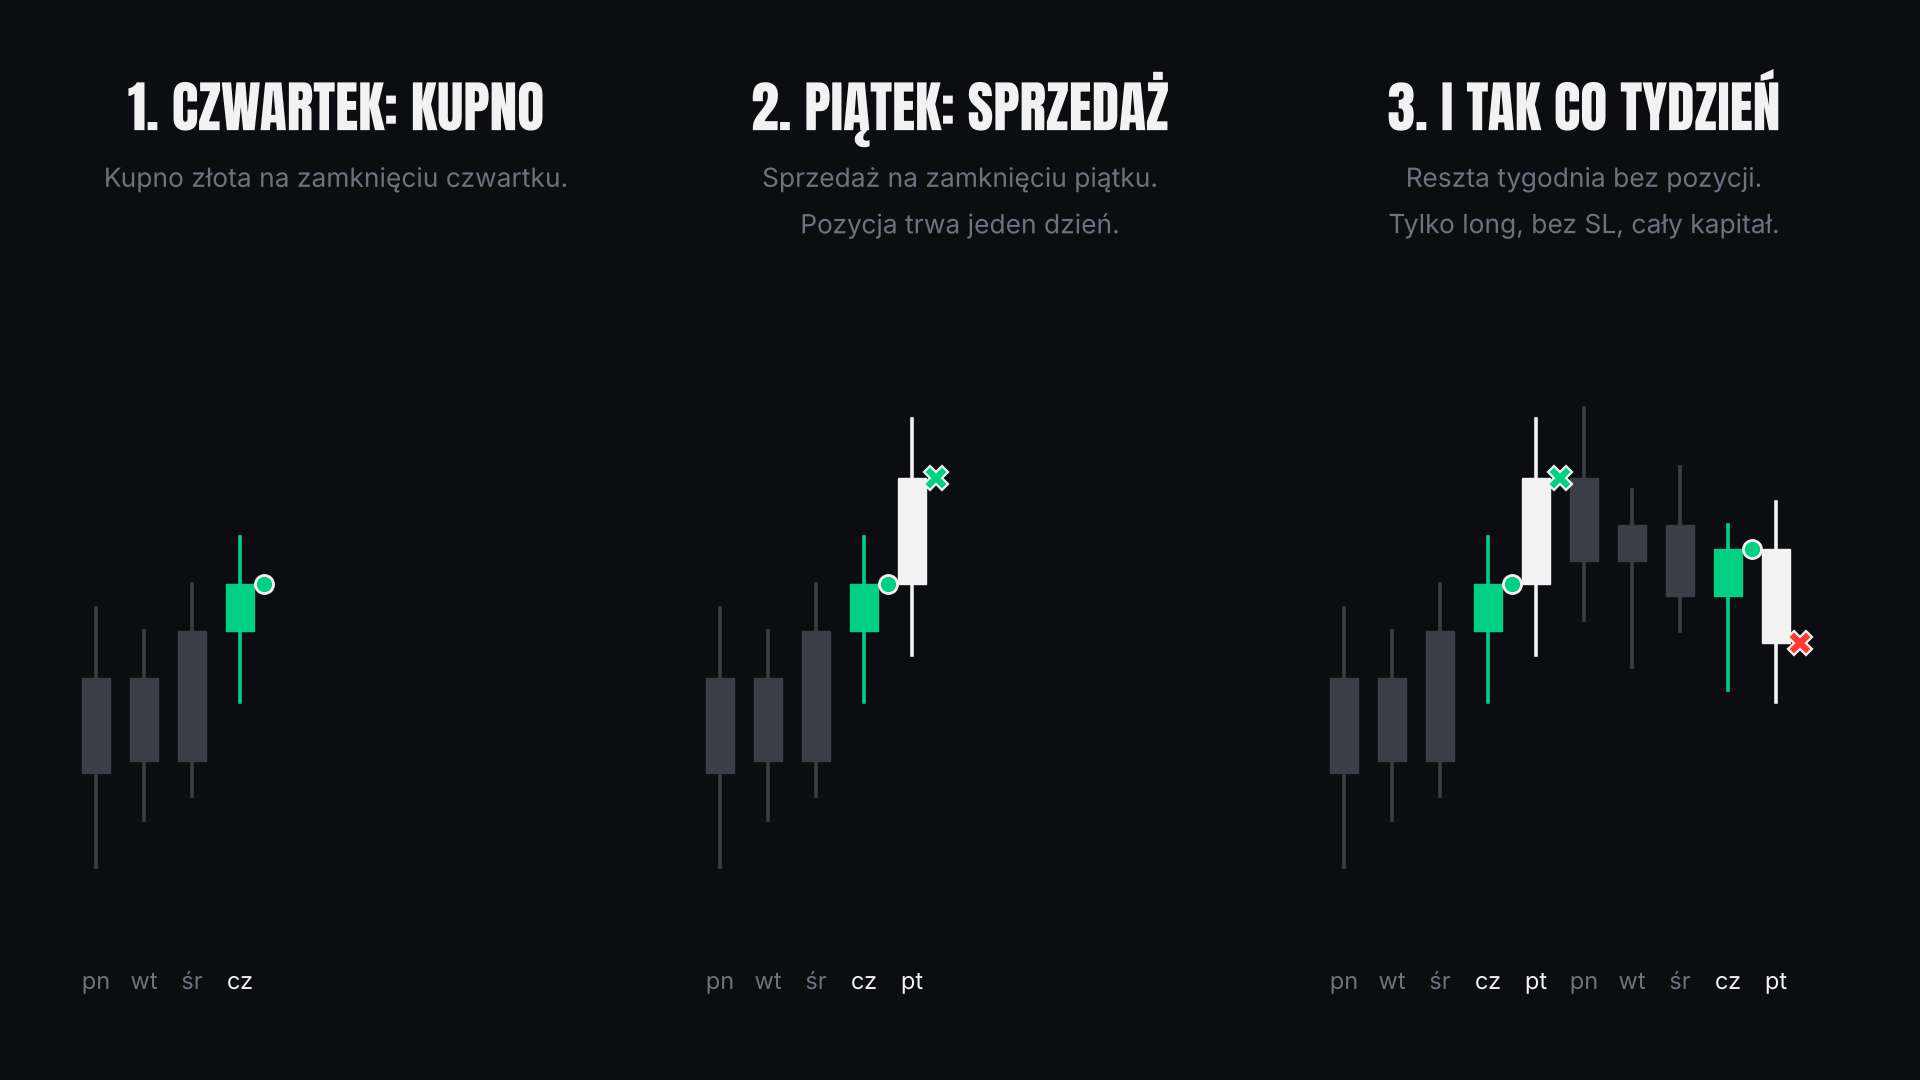
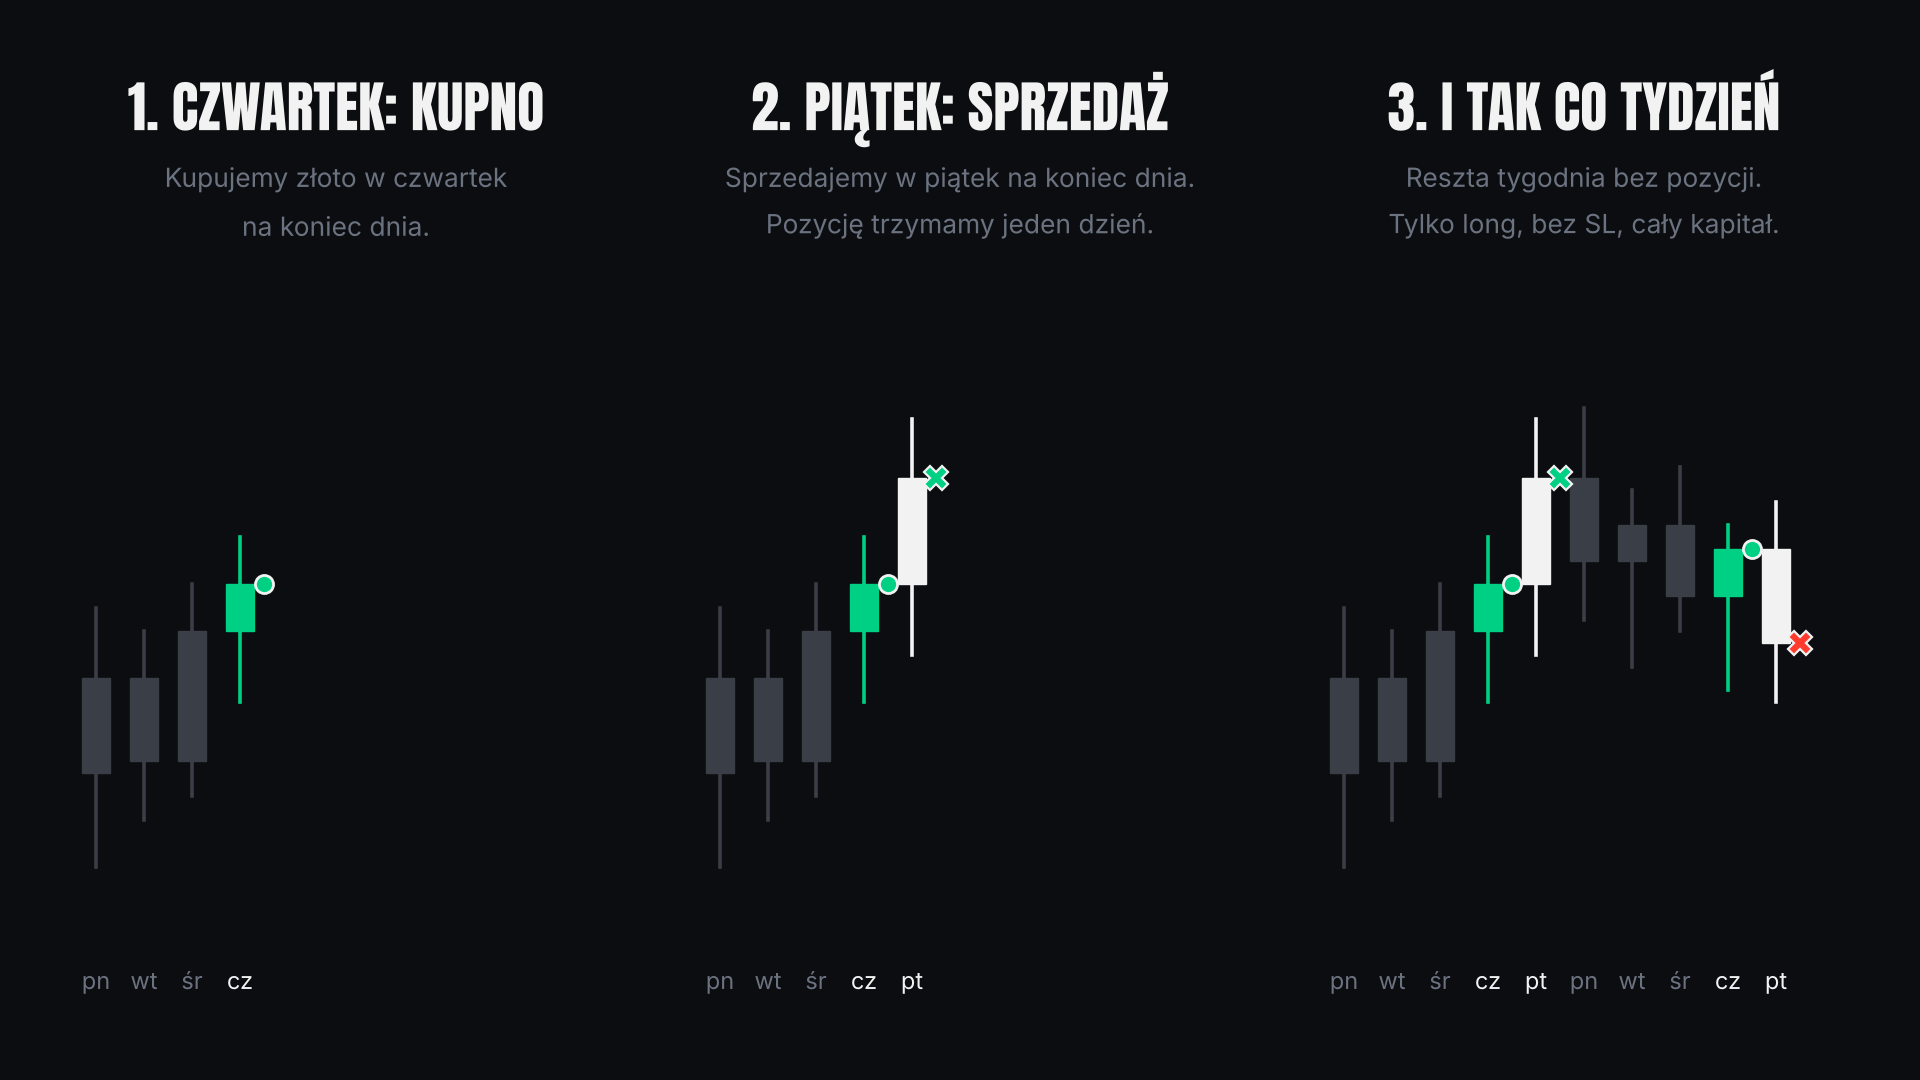
Plansza Gold czwartek/piątek: prostsze podpisy (na koniec dnia)
Claude-Session: https://claude.ai/code/session_01DmSsWBcz6xw89VZfSA4fdK

Changed region(s): [[0.375, 0.1528, 0.625, 0.2139], [0.0625, 0.1528, 0.2812, 0.2139]]

diff --git a/narzedzia/plansze_objasniajace/reddit_plansze.py b/narzedzia/plansze_objasniajace/reddit_plansze.py
@@ -363,11 +363,11 @@ def gold_thu_fri():
             s.ax.text(i, lo + s.dy * 0.6, days[i % 5], color=FG if i in hl else GREY, fontsize=17, ha="center", zorder=6)
 
     fig = figure()
-    s = Seg(fig, 0, "1. CZWARTEK: KUPNO", "Kupno złota na zamknięciu czwartku.", n, (lo, hi), right=1)
+    s = Seg(fig, 0, "1. CZWARTEK: KUPNO", "Kupujemy złoto w czwartek\nna koniec dnia.", n, (lo, hi), right=1)
     draw(s, THU + 1, {THU: GREEN})
     s.entry(THU, B[THU][3], GREEN, "")
 
-    s = Seg(fig, 1, "2. PIĄTEK: SPRZEDAŻ", "Sprzedaż na zamknięciu piątku.\nPozycja trwa jeden dzień.", n, (lo, hi), right=1)
+    s = Seg(fig, 1, "2. PIĄTEK: SPRZEDAŻ", "Sprzedajemy w piątek na koniec dnia.\nPozycję trzymamy jeden dzień.", n, (lo, hi), right=1)
     draw(s, FRI + 1, {THU: GREEN, FRI: FG})
     dot(s, THU + 0.5, B[THU][3], GREEN)
     s.exit(FRI + 0.5, B[FRI][3], GREEN, "")
